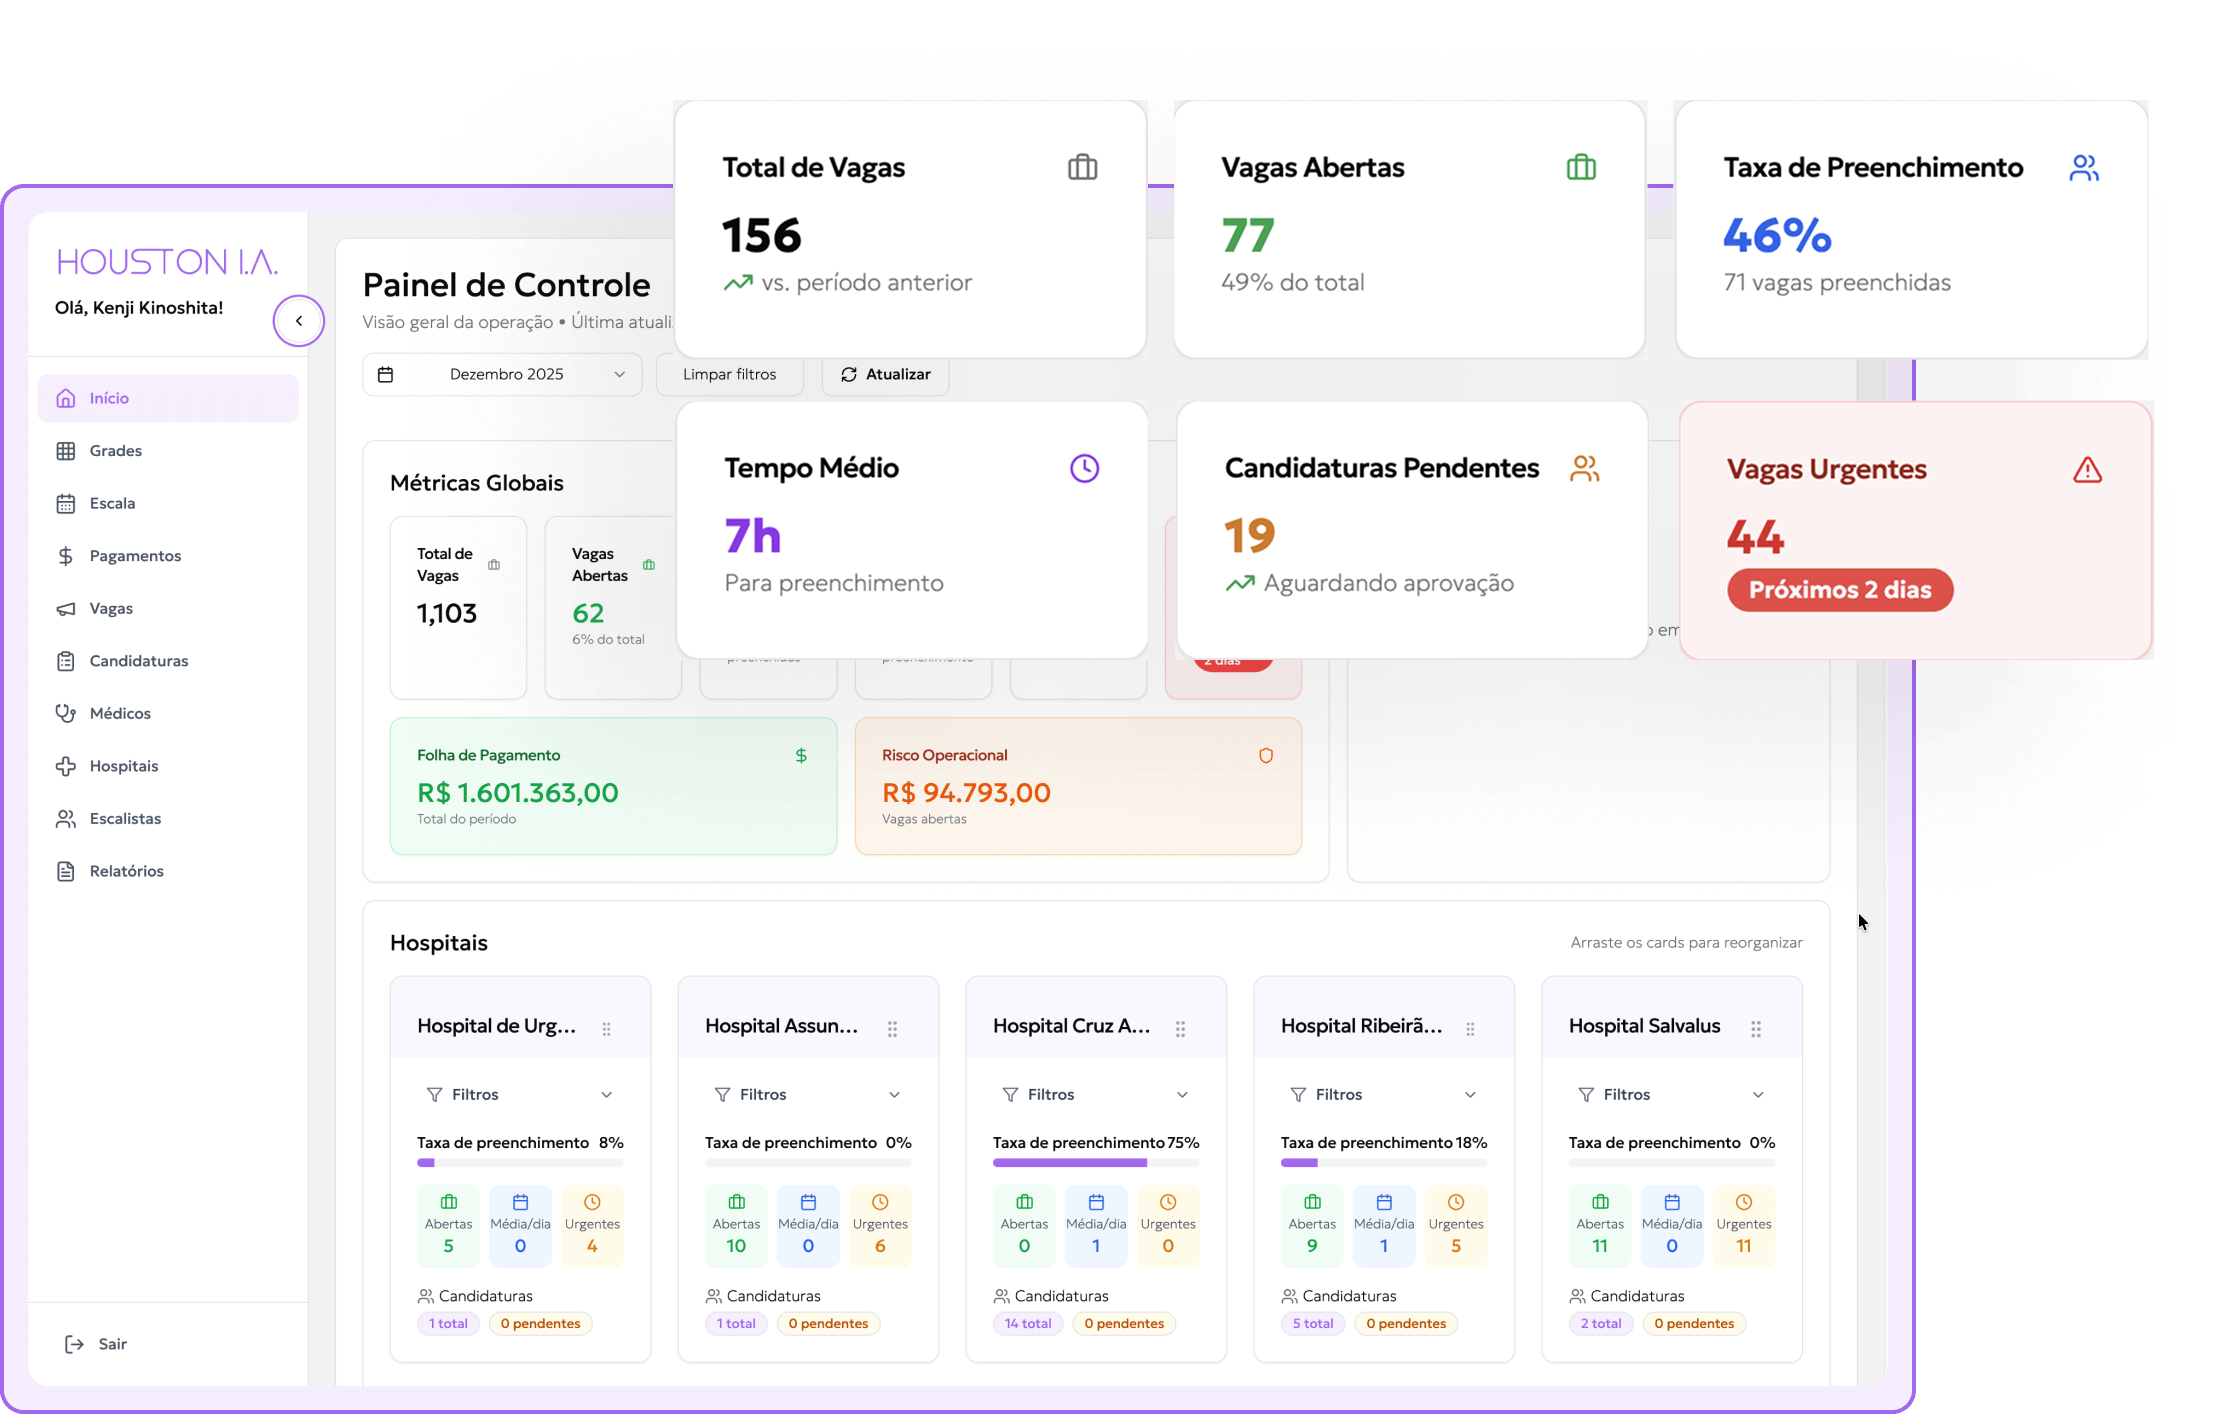
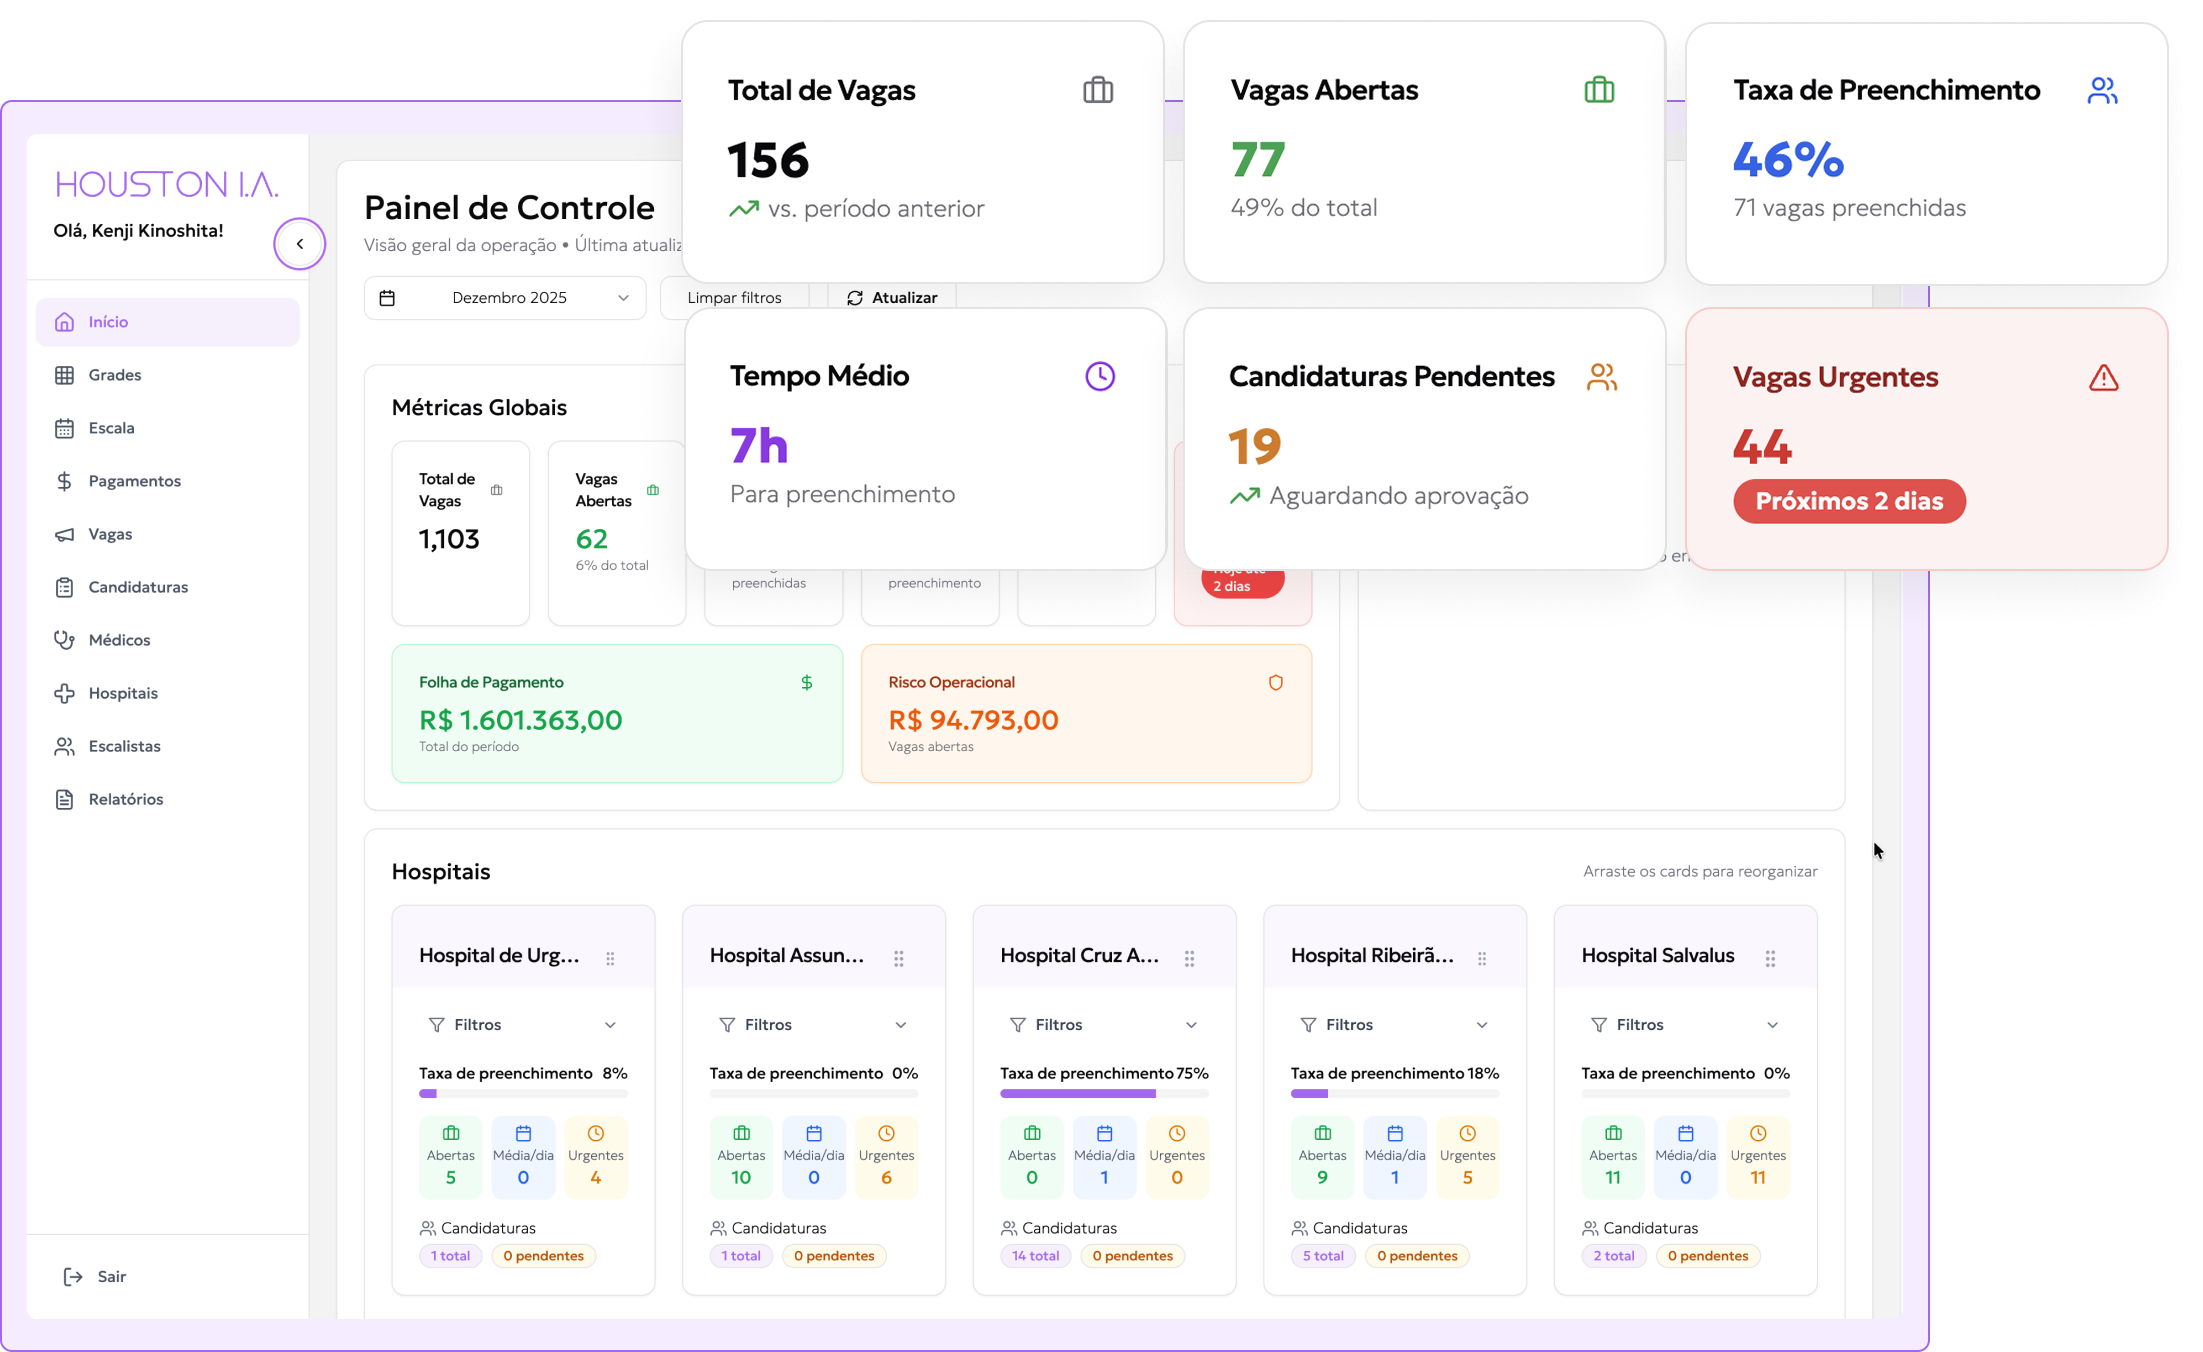
feat(houston): update images with higher resolution and quality

diff --git a/app/work/houston/houston-content.tsx b/app/work/houston/houston-content.tsx
@@ -56,7 +56,7 @@ export function HoustonContent() {
         src: "/img/houston/solution.png",
         alt: "Composition of Houston platform screens showing scheduling and management views",
         width: 2880,
-        height: 1520,
+        height: 1560,
       }}
       solutionText="A platform designed around operational clarity and scalability. Centralizing scheduling, applications, attendance validation, payments, and reporting into a single system."
       features={
@@ -83,11 +83,11 @@ export function HoustonContent() {
             </p>
             <div className="rounded-lg overflow-hidden">
               <Image
-                quality={90}
+                quality={100}
                 src="/img/houston/dasboard.png"
                 alt="Operational Dashboard"
-                width={954}
-                height={603}
+                width={2203}
+                height={1352}
                 className="w-full"
               />
             </div>
@@ -115,11 +115,11 @@ export function HoustonContent() {
             </p>
             <div className="relative">
               <Image
-                quality={90}
+                quality={100}
                 src="/img/houston/schedule.png"
                 alt="Schedule Builder"
-                width={954}
-                height={603}
+                width={1920}
+                height={1215}
                 className="w-full rounded-lg"
               />
               <video
@@ -168,11 +168,11 @@ export function HoustonContent() {
             </p>
             <div className="rounded-lg overflow-hidden">
               <Image
-                quality={90}
+                quality={100}
                 src="/img/houston/application.png"
                 alt="Job & Application Management"
-                width={1826}
-                height={1360}
+                width={1912}
+                height={1242}
                 className="w-full"
               />
             </div>
@@ -200,11 +200,11 @@ export function HoustonContent() {
             </p>
             <div className="rounded-lg overflow-hidden">
               <Image
-                quality={90}
+                quality={100}
                 src="/img/houston/calendar.png"
                 alt="Shift Calendar"
-                width={1466}
-                height={1020}
+                width={1917}
+                height={1236}
                 className="w-full"
               />
             </div>
@@ -232,11 +232,11 @@ export function HoustonContent() {
             </p>
             <div className="rounded-lg overflow-hidden">
               <Image
-                quality={90}
+                quality={100}
                 src="/img/houston/payments.png"
                 alt="Attendance & Payments"
-                width={954}
-                height={603}
+                width={1915}
+                height={1241}
                 className="w-full"
               />
             </div>
